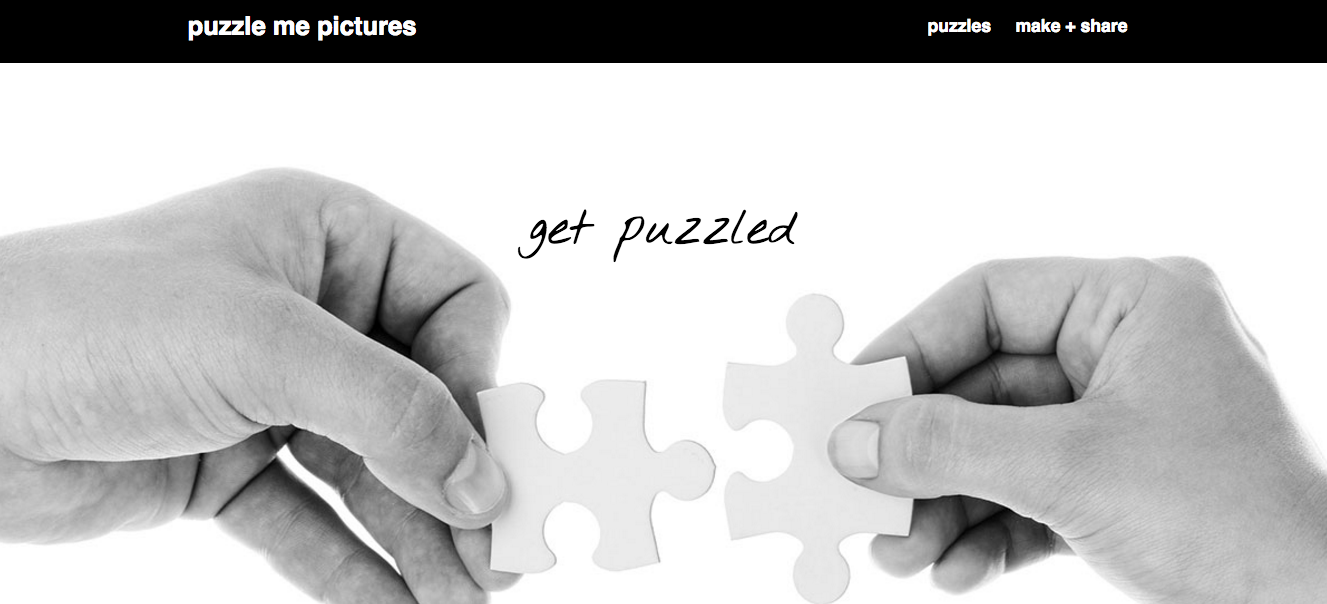
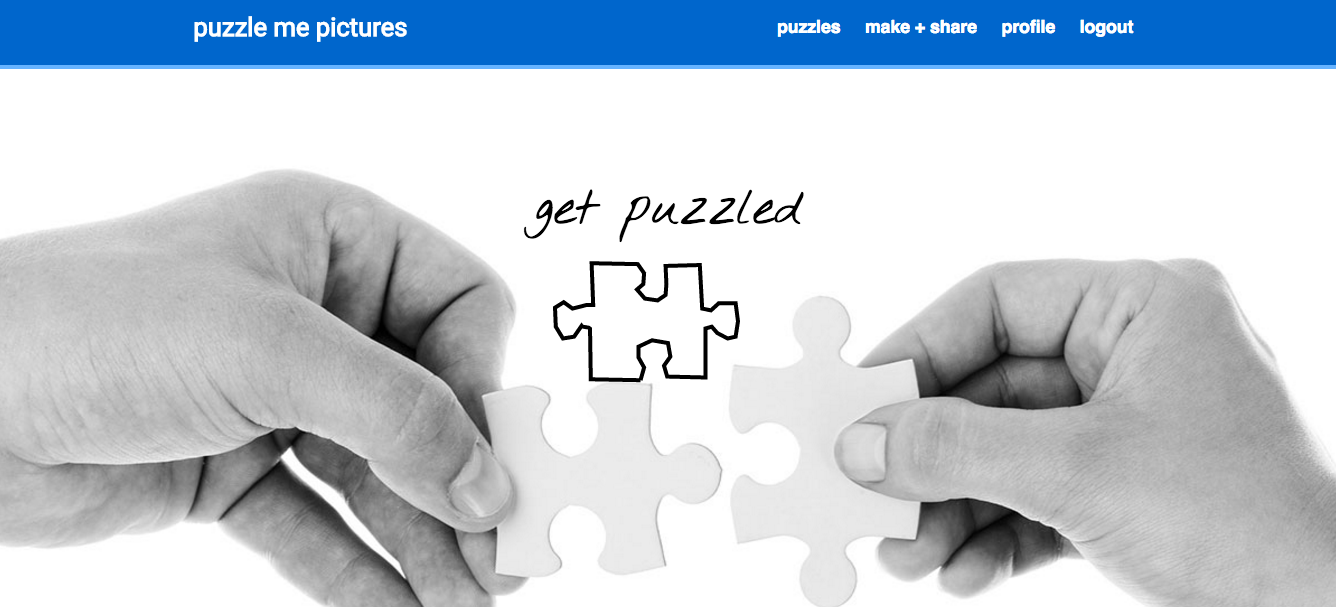
Adjust styling

diff --git a/app/assets/stylesheets/application.css b/app/assets/stylesheets/application.css
@@ -21,7 +21,8 @@
 
  /* nav, header styles */
  header {
-   background: black;
+   background: #0066cc;
+   border-bottom: 4px solid #66b3ff;
  }
  h1#logo {
    margin-top: 10px;
@@ -55,13 +56,13 @@
  body {
    padding: 0;
    margin: 0;
-   background: url('/images/pieces.jpg');
+   /*background: url('/images/pieces.jpg');
    background-attachment: fixed;
    background-repeat: no-repeat;
    -webkit-background-size: cover;
    -moz-background-size: cover;
    -o-background-size: cover;
-   background-size: cover;
+   background-size: cover;*/
    font-family: 'Roboto', sans-serif;
  }
  .content {
@@ -165,8 +166,11 @@ svg {
  .puzzle-grid img {
    width: 100%;
    max-width: 230px;
-   border-top: 5px solid black;
-   border-bottom: 5px solid black;
+   /*border-top: 5px solid black;
+   border-bottom: 5px solid black;*/
+ }
+ .puzzle-grid img:hover {
+   opacity: .8;
  }
  .grid-content {
    text-align: center;
@@ -181,16 +185,16 @@ svg {
      margin-top: -10px;
  }
 
- .puzzle-grid h3 {
+ .puzzle-grid h2 {
      font-size: 20px;
-     margin-top: -10px;
+     margin-bottom: 10px;
  }
- .puzzle-grid a {
+ /*.puzzle-grid a {
    color: black;
  }
  .puzzle-grid a:hover {
    opacity: .8;
- }
+ }*/
 
  .all-puzzles {
    text-align: center;

diff --git a/app/assets/javascripts/script.js b/app/assets/javascripts/script.js
@@ -225,7 +225,7 @@ $(".puzzles.show").ready(function() {
           stage.fillStyle = "#000000";
           stage.globalAlpha = .9;
           stage.fillRect(100,puzzleHeight - 40,puzzleWidth - 200,40);
-          stage.fillStyle = "#6666ff";
+          stage.fillStyle = "#FFFFFF";
           stage.globalAlpha = 1;
           stage.textAlign = "center";
           stage.textBaseline = "middle";
